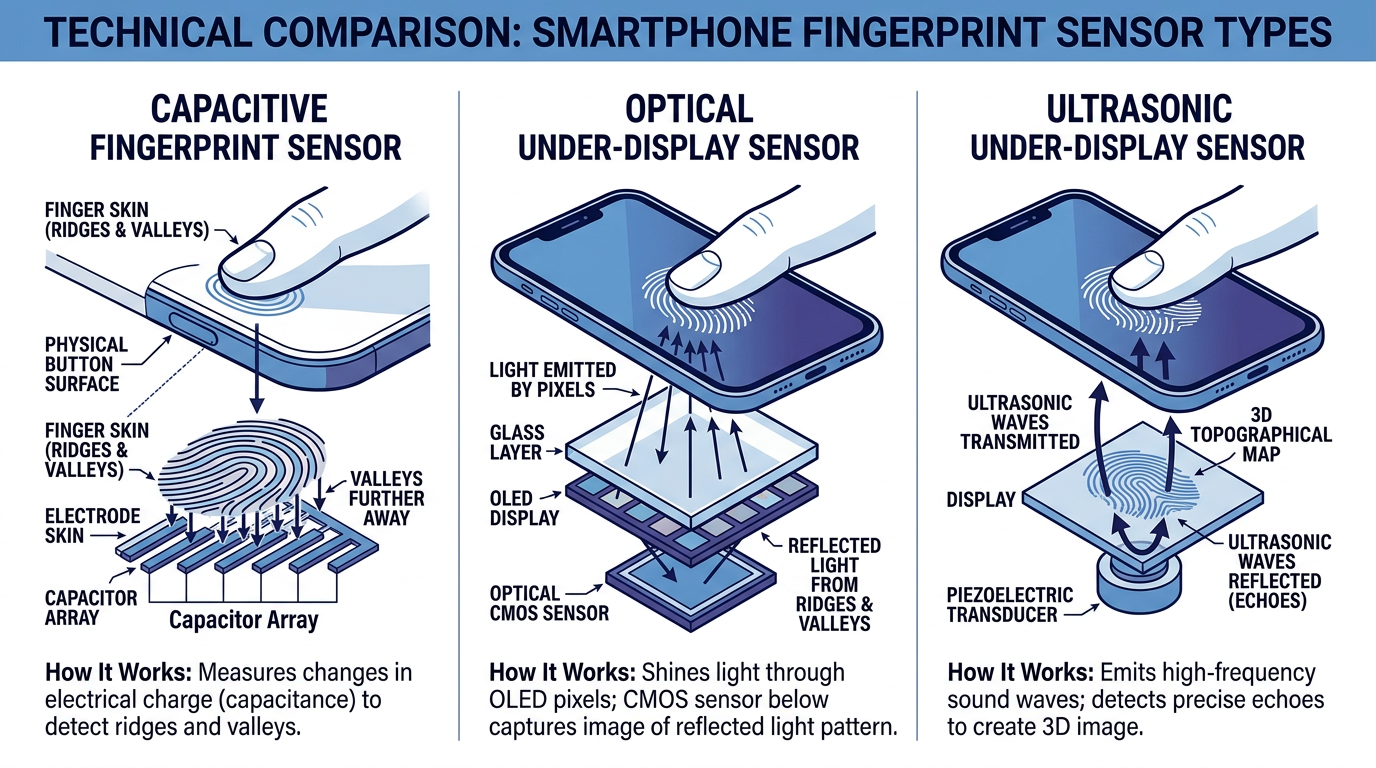
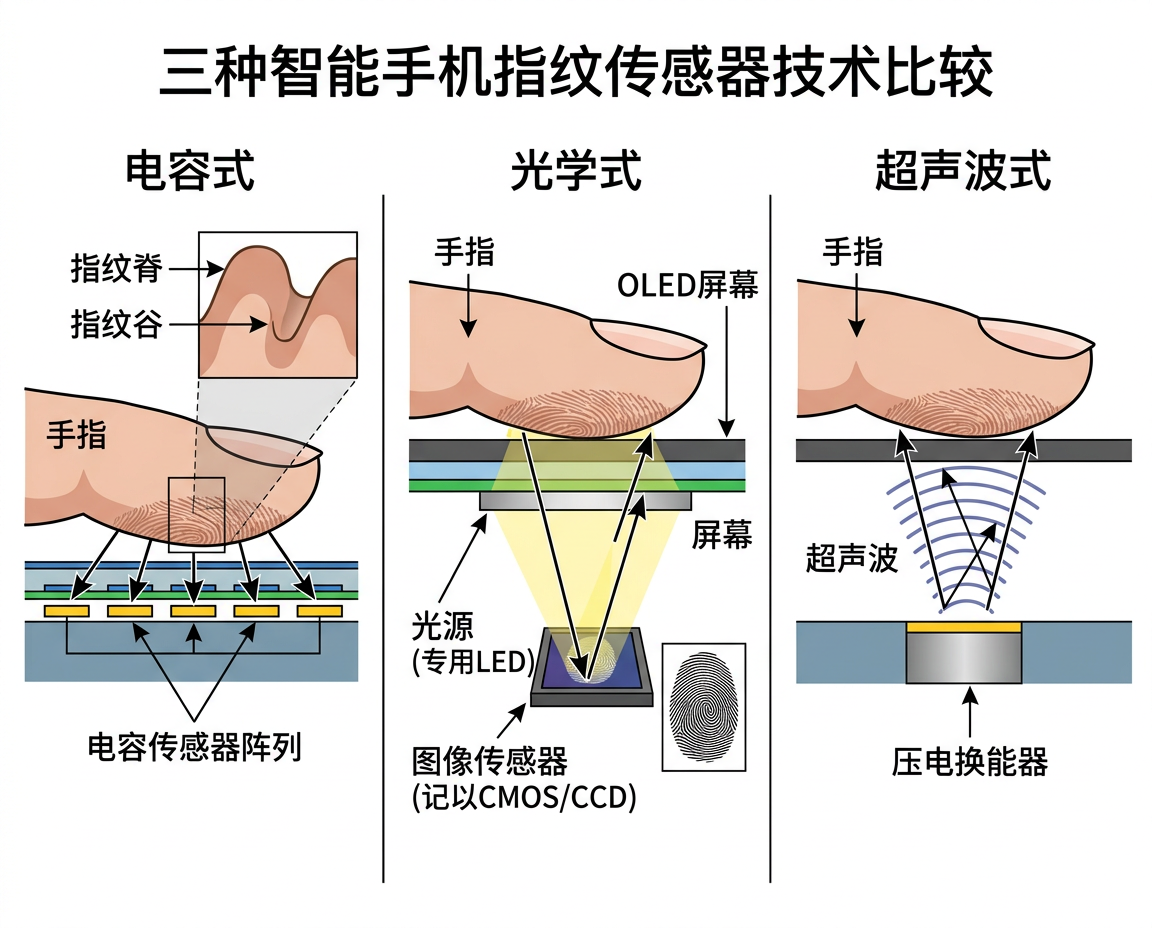
docs: 全部图片中文化 + 新增12张图片覆盖所有页面
1. 重新生成全部20张已有图片，标注改为中文
2. 新增6张替换剩余ASCII图表：测距对比、UWB脉冲、IR PWM编码、
   PPG信号处理、TrueDepth模组、数据工具链
3. 新增6张用于原无图页面：环境光传感器、温度传感器、
   Android框架、iOS框架、SensorLog工作流、计步器波形
4. 全站共32张中文标注技术插图，覆盖所有页面

🤖 Generated with [Qoder][https://qoder.com]

diff --git a/docs/sensors/biometric/face.md b/docs/sensors/biometric/face.md
@@ -11,17 +11,10 @@
 
 Apple Face ID 使用前置 **TrueDepth 摄像头系统**,包含多个传感器协同工作:
 
-```
-┌────────────────────────────────────────────┐
-│              TrueDepth 模组                 │
-│                                            │
-│  ┌────┐ ┌────┐ ┌──────┐ ┌────┐ ┌──────┐  │
-│  │红外│ │泛光│ │ 点阵 │ │前置│ │ 红外 │  │
-│  │接近│ │感应│ │ 投影 │ │RGB │ │ 相机 │  │
-│  │传感│ │ 器 │ │  器  │ │相机│ │      │  │
-│  └────┘ └────┘ └──────┘ └────┘ └──────┘  │
-└────────────────────────────────────────────┘
-```
+<figure markdown="span">
+  ![TrueDepth 模组布局](../../assets/images/truedepth-module.png){ width="680" }
+  <figcaption>Apple TrueDepth 模组硬件布局：红外接近传感器、泛光感应器、点阵投影器、前置相机、红外相机</figcaption>
+</figure>
 
 | 组件 | 功能 | 技术 |
 |:-----|:-----|:-----|

diff --git a/docs/sensors/position/index.md b/docs/sensors/position/index.md
@@ -17,15 +17,7 @@
 
 ## 测距技术对比
 
-```
-精度     ← 高                              低 →
-         mm          cm          m          km
-          │           │           │           │
-   LiDAR ■■■■■        │           │           │
-     ToF ■■■■■■       │           │           │
-  接近    │     ■■■■■■ │           │           │
-    UWB   │  ■■■■■■■■  │           │           │
-   GNSS   │           │   ■■■■■■■■■           │
-  Wi-Fi   │           │ ■■■■■■■■  │           │
-  蜂窝    │           │           ■■■■■■■■■■■ │
-```
+<figure markdown="span">
+  ![测距技术对比](../../assets/images/ranging-comparison.png){ width="720" }
+  <figcaption>各测距技术的有效范围与精度对比</figcaption>
+</figure>

diff --git a/docs/sensors/others/hall-ir.md b/docs/sensors/others/hall-ir.md
@@ -51,13 +51,10 @@ $$V_H = \frac{I \cdot B}{n \cdot e \cdot d}$$
 
 红外遥控使用 **脉宽调制 (PWM)** 编码:
 
-```
-38kHz 载波:  ╥╥╥╥╥╥╥     ╥╥╥╥╥╥╥╥╥╥╥     ╥╥╥╥╥╥╥
-             ║║║║║║║     ║║║║║║║║║║║     ║║║║║║║
-             ╨╨╨╨╨╨╨     ╨╨╨╨╨╨╨╨╨╨╨     ╨╨╨╨╨╨╨
-             └ 短脉冲 ┘   └── 长脉冲 ──┘   └ 短脉冲 ┘
-                "0"            "1"            "0"
-```
+<figure markdown="span">
+  ![红外遥控 PWM 编码](../../assets/images/ir-pwm-encoding.png){ width="640" }
+  <figcaption>红外遥控 38kHz 载波脉宽调制编码 (NEC 协议)</figcaption>
+</figure>
 
 ### 常见遥控协议
 

diff --git a/docs/sensors/others/uwb.md b/docs/sensors/others/uwb.md
@@ -20,13 +20,10 @@ UWB 使用极短的时间脉冲 (纳秒级) 进行通信和测距:
 
 ### 脉冲信号特征
 
-```
-传统窄带信号:     ∼∼∼∼∼∼∼∼∼∼∼∼∼∼∼∼∼∼∼∼∼∼  (连续正弦波)
-
-UWB 脉冲信号:     ╷   ╷   ╷   ╷   ╷   ╷    (极短脉冲,宽带)
-                   │   │   │   │   │   │
-                   ▼   ▼   ▼   ▼   ▼   ▼
-```
+<figure markdown="span">
+  ![UWB 脉冲信号特征](../../assets/images/uwb-pulse-signal.png){ width="640" }
+  <figcaption>UWB 极短脉冲信号 vs 传统窄带连续信号对比</figcaption>
+</figure>
 
 ### 双向测距 (TWR)
 

diff --git a/docs/practice/index.md b/docs/practice/index.md
@@ -18,11 +18,7 @@
 
 ### 数据处理工具链
 
-```
-手机传感器 App → CSV/JSON 导出 → Python 分析 → 可视化/报告
-                    │
-                    ├── pandas (数据处理)
-                    ├── matplotlib (绑图)
-                    ├── scipy (信号处理)
-                    └── numpy (数值计算)
-```
+<figure markdown="span">
+  ![数据处理工具链](../assets/images/data-pipeline.png){ width="720" }
+  <figcaption>传感器数据采集与分析工具链：手机 App → CSV 导出 → Python 分析 → 可视化</figcaption>
+</figure>

diff --git a/docs/sensors/biometric/health.md b/docs/sensors/biometric/health.md
@@ -38,13 +38,10 @@
 
 ### 信号处理流程
 
-```
-原始 PPG 信号 → 带通滤波 (0.5-4 Hz) → 峰值检测 → 计算 RR 间期 → 心率 BPM
-                   │
-                   ├── 运动伪迹去除 (加速度计辅助)
-                   │
-                   └── 自适应降噪
-```
+<figure markdown="span">
+  ![PPG 信号处理流程](../../assets/images/ppg-signal-processing.png){ width="680" }
+  <figcaption>PPG 信号处理管线：从原始信号到心率 BPM</figcaption>
+</figure>
 
 心率计算:
 

diff --git a/docs/programming/android.md b/docs/programming/android.md
@@ -1,5 +1,10 @@
 # Android 传感器 API
 
+<figure markdown="span">
+  ![Android 传感器框架](../assets/images/android-sensor-framework.png){ width="560" }
+  <figcaption>Android 传感器框架分层架构：应用层 → 框架层 → HAL 层 → 硬件层</figcaption>
+</figure>
+
 ## 框架概述
 
 Android 传感器框架位于 `android.hardware` 包中,核心类:

diff --git a/docs/programming/ios.md b/docs/programming/ios.md
@@ -1,5 +1,10 @@
 # iOS Core Motion
 
+<figure markdown="span">
+  ![iOS Core Motion 框架](../assets/images/ios-coremotion-framework.png){ width="560" }
+  <figcaption>iOS Core Motion 框架架构：CMMotionManager、CMAltimeter、CMPedometer</figcaption>
+</figure>
+
 ## 框架概述
 
 iOS 的传感器数据主要通过以下框架访问:

diff --git a/docs/practice/data-collection.md b/docs/practice/data-collection.md
@@ -1,5 +1,10 @@
 # 数据采集实验
 
+<figure markdown="span">
+  ![计步器加速度波形](../assets/images/step-counter-waveform.png){ width="720" }
+  <figcaption>基于加速度计的计步原理：合成加速度周期性波形与峰值检测</figcaption>
+</figure>
+
 ## 实验一: 计步器
 
 ### 实验目标

diff --git a/docs/practice/sensorlog.md b/docs/practice/sensorlog.md
@@ -1,5 +1,10 @@
 # SensorLog 使用指南
 
+<figure markdown="span">
+  ![SensorLog 工作流程](../assets/images/sensorlog-workflow.png){ width="720" }
+  <figcaption>SensorLog 数据采集工作流程：配置 → 记录 → 导出 → 分析</figcaption>
+</figure>
+
 ## App 简介
 
 | 属性 | 值 |

diff --git a/docs/sensors/environment/light.md b/docs/sensors/environment/light.md
@@ -1,5 +1,10 @@
 # 环境光传感器 (Ambient Light Sensor)
 
+<figure markdown="span">
+  ![环境光传感器原理](../../assets/images/ambient-light-sensor.png){ width="680" }
+  <figcaption>环境光传感器多通道光谱响应原理</figcaption>
+</figure>
+
 ## 基本信息
 
 | 属性 | 值 |

diff --git a/docs/sensors/environment/temperature.md b/docs/sensors/environment/temperature.md
@@ -1,5 +1,10 @@
 # 温湿度传感器
 
+<figure markdown="span">
+  ![温度传感器原理](../../assets/images/temperature-sensor.png){ width="680" }
+  <figcaption>PN 结温度传感器与 NTC 热敏电阻工作原理</figcaption>
+</figure>
+
 ## 温度传感器
 
 ### 基本信息
